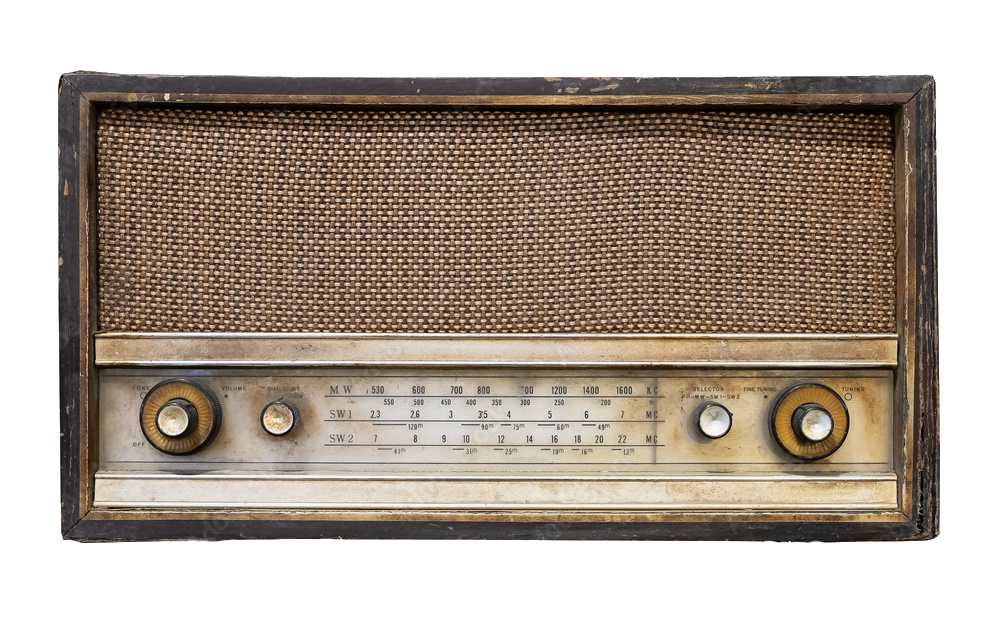
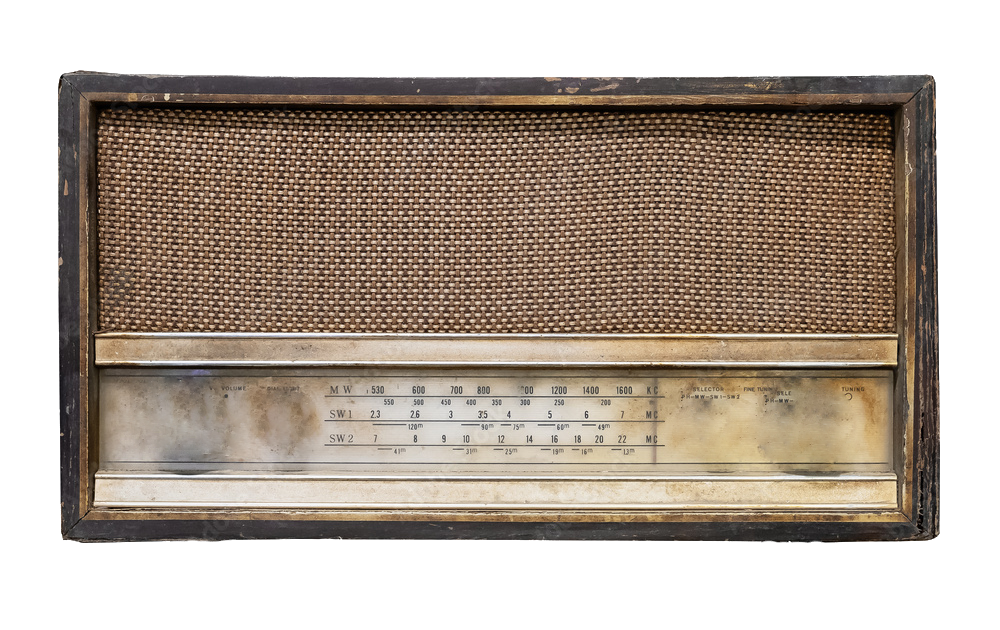
radio buttons rotating

Changed region(s): [[0.682, 0.6032, 0.868, 0.754], [0.124, 0.6032, 0.31, 0.7238]]

diff --git a/assets/script.js b/assets/script.js
@@ -156,6 +156,52 @@ player2.addEventListener('click', function() {
     clickSound.play();
 });
 
+// radio
+
+// button one
+
+let rotationAngleone = 0;
+
+document.querySelector('.btn-1').addEventListener('click', function () {
+        rotationAngleone = (rotationAngleone + 30) % 360;
+        document.querySelector('.btn-1').style.transform = `rotate(${rotationAngleone}deg)`;
+        var static = document.getElementById('static');
+        static.play();
+});
+
+// button two
+
+let rotationAngletwo = 0;
+
+document.querySelector('.btn-2').addEventListener('click', function () {
+        rotationAngletwo = (rotationAngletwo + 30) % 360;
+        document.querySelector('.btn-2').style.transform = `rotate(${rotationAngletwo}deg)`;
+        var static = document.getElementById('static');
+        static.play();
+});
+
+// button three
+
+let rotationAnglethree = 0;
+
+document.querySelector('.btn-3').addEventListener('click', function () {
+        rotationAnglethree = (rotationAnglethree + 30) % 360;
+        document.querySelector('.btn-3').style.transform = `rotate(${rotationAnglethree}deg)`;
+        var static = document.getElementById('static');
+        static.play();
+});
+
+// button four
+
+let rotationAnglefour = 0;
+
+document.querySelector('.btn-4').addEventListener('click', function () {
+        rotationAnglefour = (rotationAnglefour + 40) % 360;
+        document.querySelector('.btn-4').style.transform = `rotate(${rotationAnglefour}deg)`;
+        var static = document.getElementById('static');
+        static.play();
+});
+
 // Combination Lock
 
 // lock 1

diff --git a/index.html b/index.html
@@ -76,10 +76,10 @@
         <div class="note"></div>
         <!-- radio -->
         <div class="black">
-            <button class="btn-1">1</button>
-            <button class="btn-2">2</button>
-            <button class="btn-3">3</button>
-            <button class="btn-4">4</button>
+            <button class="btn-1"></button>
+            <button class="btn-2"></button>
+            <button class="btn-3"></button>
+            <button class="btn-4"></button>
         </div>
         <!-- Combination -->
         <div class="green">
@@ -161,6 +161,7 @@
             <input type="range" id="volumeSlider" min="0" max="1" step="0.01" value="1" oninput="changeVolume(this.value)">
         </div>
     </div>   
+    <audio id="static" src="./assets/Music/static.mp4"></audio>     
     <audio id="clock-open" src="./assets/Music/mixkit-melodic-church-bell-617.wav"></audio>     
     <audio id="case-open" src="./assets/Music/open.mp4"></audio> 
     <audio id="lock-change" src="./assets/Music/lock.mp4"></audio>

diff --git a/assets/style.css b/assets/style.css
@@ -265,6 +265,7 @@ footer img {
     height: 50%;
 }
 
+/* radio */
 .room-two .black {
     position: absolute;
     top: 20px;
@@ -281,13 +282,19 @@ footer img {
 
 .black button {
     position: absolute;
-    padding: 20px; 
+    width: 46px;
+    height: 46px;
     border: 0;
+    background-image: url('./images/radiobtn.png');
+    background-size: cover;
+    background-color: transparent;
 }
 
 .black .btn-1 {
     left: 125px;
-    bottom: 90px;
+    bottom: 85px; 
+    width: 60px;
+    height: 60px;
 }
 
 .black .btn-2 {
@@ -302,7 +309,9 @@ footer img {
 
 .black .btn-4 {
     right: 135px;
-    bottom: 90px;
+    bottom: 85px;
+    width: 60px;
+    height: 60px;
 }
 
 .room-two .pad {
